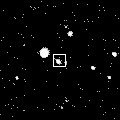
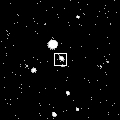
Fixed bug

diff --git a/filter/turn_it_black.js b/filter/turn_it_black.js
@@ -31,7 +31,7 @@ function setXYPixel(x, y, frameData, image){
 			data = {r: 0, g: 0, b:0, a: data.a};
 		}
 
-		image.setPixel(x, y, data, function(err){
+		image.setPixel(y, x, data, function(err){
 			if (y == image.width() - 1){
 				y = 0;
 				x += 1;
